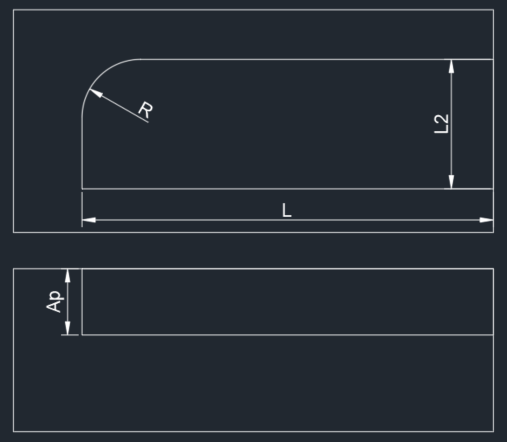
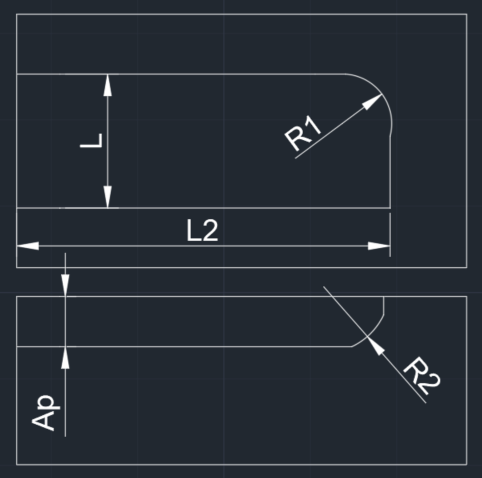
add actions for turning, create button to download csv file

diff --git a/src/Components/ActionAssembly/utils.js b/src/Components/ActionAssembly/utils.js
@@ -6,6 +6,8 @@ import surfacePlanningImage from '../../images/action-/surface_planning.png';
 import pocketImage from '../../images/action-/pocket.png';
 import openPocketImage from '../../images/action-/open_pocket.png';
 import vSlotImage from '../../images/action-/v_slot.png';
+import facePlanningImage from '../../images/action-/face_planning.png';
+import externalGrooveImage from '../../images/action-/external_groove.png';
 
 const PARAMS_FOR_ACTIONS = {
     'through hole': {
@@ -104,10 +106,15 @@ const PARAMS_FOR_ACTIONS = {
             unit: 'mm',
             description: 'Deep of cut',
         },
-        R: {
-            symbol: 'R',
+        R1: {
+            symbol: 'R1',
             unit: 'mm',
-            description: 'Corner radius',
+            description: 'Max corner radius',
+        },
+        R2: {
+            symbol: 'R2',
+            unit: 'mm',
+            description: 'Max corner radius bottom',
         },
     },
     'open pocket': {
@@ -126,10 +133,15 @@ const PARAMS_FOR_ACTIONS = {
             unit: 'mm',
             description: 'Deep of cut',
         },
-        R: {
-            symbol: 'R',
+        R1: {
+            symbol: 'R1',
             unit: 'mm',
-            description: 'Corner radius',
+            description: 'Max corner radius',
+        },
+        R2: {
+            symbol: 'R2',
+            unit: 'mm',
+            description: 'Max corner radius bottom',
         },
     },
     'V slot': {
@@ -141,13 +153,47 @@ const PARAMS_FOR_ACTIONS = {
         Hs: {
             symbol: 'Hs',
             unit: 'mm',
-            description: 'Deep of cut',
+            description: 'Slot deep',
         },
         δ: {
             symbol: 'δ',
             unit: '---',
             description: 'Angle of slot',
         }
+    },
+    'face planning': {
+        D: {
+            symbol: 'D',
+            unit: 'mm',
+            description: 'Face diameter',
+        },
+        AP: {
+            symbol: 'AP',
+            unit: 'mm',
+            description: 'Deep of cut',
+        },
+        HAND: {
+            symbol: 'HAND',
+            unit: '---',
+            description: 'Direction'
+        },
+    },
+    'external groove': {
+        L: {
+            symbol: 'L',
+            unit: 'mm',
+            description: 'Groove length',
+        },
+        AP: {
+            symbol: 'AP',
+            unit: 'mm',
+            description: 'Deep of cut',
+        },
+        HAND: {
+            symbol: 'HAND',
+            unit: '---',
+            description: 'Direction'
+        },
     },
 };
 
@@ -176,6 +222,12 @@ export const getImageForAction = (action) => {
         }
         case 'V slot': {
             return vSlotImage;
+        }
+        case 'face planning': {
+            return facePlanningImage;
+        }
+        case 'external groove': {
+            return externalGrooveImage;
         }
         default: break;
     }

diff --git a/src/Pages/UserAccount.js b/src/Pages/UserAccount.js
@@ -3,7 +3,7 @@ import {AppHeader} from "../Components/AppHeader/AppHeader";
 import {handleFetch} from "../Hooks/useFetch";
 import {AssemblyToolItem} from "../Components/AssemblyToolItem/AssemblyToolItem";
 import ArrowBackIcon from "@mui/icons-material/ArrowBack";
-import {IconButton} from "@mui/material";
+import {Button, IconButton} from "@mui/material";
 import {useNavigate} from "react-router-dom";
 import {GlobalPopup} from "../Components/GlobalPopup/GlobalPopup";
 import {useGlobalPopupState} from "../context/GlobalPopupContext/GlobalPopupContext";
@@ -12,6 +12,8 @@ import {useInfoPopupDispatchState, useInfoPopupState} from "../context/InfoConte
 import {addToInfoPopupState} from "../context/InfoContext/actions";
 import {InfoPopup} from "../Components/InfoPopup/InfoPopup";
 import './style.css';
+import fileSaver from 'file-saver';
+import {url} from "../constants";
 
 export const UserAccount = () => {
     const [assemblyTools, setAssemblyTools] = useState([]);
@@ -43,6 +45,12 @@ export const UserAccount = () => {
 
     const goBack = () => navigate('/app');
 
+    const getCsv = async () => {
+        const res = await fetch(`${url}csv`);
+        const blob = await res.blob();
+        fileSaver.saveAs(blob, 'params.csv');
+    };
+
     return <div className='userAccountContainer'>
         {
             globalPopupState.isOpen && <GlobalPopup
@@ -58,6 +66,16 @@ export const UserAccount = () => {
                 <ArrowBackIcon fontSize='large'/>
             </IconButton>
         </div>
+        <Button onClick={getCsv}
+            variant='contained'
+            sx={{
+                fontSize: '25px',
+                width: '100%',
+                marginTop: '10px',
+            }}
+        >
+            Download csv file with params descriptions
+        </Button>
         <div>
             {
                 assemblyTools.map((assemblyTool) => <AssemblyToolItem

diff --git a/src/Components/ActionParamInput/ActionParamInput.js b/src/Components/ActionParamInput/ActionParamInput.js
@@ -2,12 +2,13 @@ import React from "react";
 import {Input, MenuItem, Select} from "@mui/material";
 import './style.css';
 
-const SELECT_PARAMS_SYMBOLS = ['IT', 'BOTTOM', 'Hs', 'Ls', 'δ'];
+const SELECT_PARAMS_SYMBOLS = ['IT', 'BOTTOM', 'Hs', 'Ls', 'δ', 'HAND'];
 const BOTTOM_DOMAIN = ['FLAT', 'V'];
 const IT_DOMAIN = ['IT6', 'IT7', 'IT8', 'IT9', 'IT10', 'IT11'];
 const LS_DOMAIN = [16, 20, 25, 32];
 const HS_DOMAIN = [4, 5, 6.3, 8, 10, 5.6, 7.1, 9, 11.2, 12.5];
 const DELTA_DOMAIN = ['45deg', '50deg', '55deg', '60deg'];
+const HAND_DOMAIN = ['L', 'R'];
 
 const getMenuItemsForSelect = (param) => {
     switch (param.symbol) {
@@ -16,6 +17,8 @@ const getMenuItemsForSelect = (param) => {
         case 'Ls': return LS_DOMAIN.map((ls, index) => <MenuItem key={index} value={ls}>{ls}</MenuItem>);
         case 'Hs': return HS_DOMAIN.map((hs, index) => <MenuItem key={index} value={hs}>{hs}</MenuItem>);
         case 'δ': return DELTA_DOMAIN.map((delta, index) => <MenuItem key={index} value={delta}>{delta}</MenuItem>);
+        case 'HAND': return HAND_DOMAIN.map((hand, index) => <MenuItem key={index} value={hand}>{hand}</MenuItem>);
+        default: break;
     };
 }
 
@@ -44,7 +47,7 @@ export const ActionParamInput = ({value, setValue, param}) => {
                     </Select>
             }
             {
-                !['IT', 'BOTTOM', 'δ'].includes(param.symbol) && <span>{param.unit}</span>
+                !['IT', 'BOTTOM', 'δ', 'HAND'].includes(param.symbol) && <span>{param.unit}</span>
             }
         </div>
     </div>

diff --git a/src/Components/ActionAssembly/ActionAssembly.js b/src/Components/ActionAssembly/ActionAssembly.js
@@ -24,13 +24,15 @@ export const ActionAssembly = ({action}) => {
         L2: 0,
         L3: 0,
         H: 0,
-        R: 0,
+        R1: 0,
+        R2: 0,
         AP: 0,
         IT: 'IT6',
         BOTTOM: 'V',
         δ: '45deg',
         Ls: '16',
         Hs: '4',
+        HAND: 'L',
     });
 
     const handleAutoAssembly = async () => {
@@ -42,6 +44,7 @@ export const ActionAssembly = ({action}) => {
             }));
         }
         const queryString = constructQueryStringForAction(action, paramsValues);
+        console.log(queryString);
         const tool = await handleFetch(
             'GET',
             '',

diff --git a/src/index.js b/src/index.js
@@ -26,7 +26,7 @@ root.render(
                           <SetToolContext>
                               <InfoPopupContext>
                                   <Routes>
-                                      <Route path={'/'} element={<Navigate to='/login'/>}/>
+                                      <Route path={'/'} element={<Navigate to='/app'/>}/>
                                       <Route path='/login' element={<Login/>}/>
                                       <Route path='/app' element={<App/>}/>
                                       <Route path='/app/singletool/:type/:id' element={<SingleToolView/>}/>
